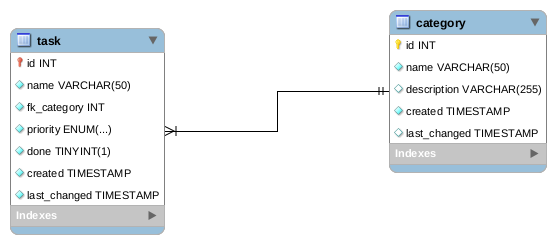
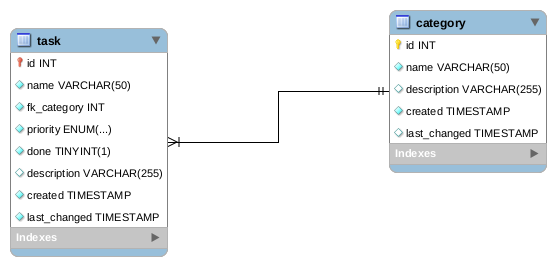
db layer improvements

Changed region(s): [[0.0, 0.0861, 1.0, 0.9754], [0.7032, 0.0287, 1.0, 0.2008]]

diff --git a/pkg/todo/dba/category_test.go b/pkg/todo/dba/category_test.go
@@ -4,10 +4,11 @@ import (
 	"database/sql"
 	"testing"
 
+	"github.com/jmoiron/sqlx"
 	"github.com/stretchr/testify/assert"
 )
 
-func TestInsertCategory(t *testing.T) {
+func TestInsertCategory_WithoutTransaction(t *testing.T) {
 	teardownTestCase := setupTestCase()
 	defer teardownTestCase()
 
@@ -16,4 +17,46 @@ func TestInsertCategory(t *testing.T) {
 
 	assert.Nil(t, err)
 	assert.NotEqual(t, 0, id)
+}
+
+func TestInsertCategory_Transaction(t *testing.T) {
+	teardownTestCase := setupTestCase()
+	defer teardownTestCase()
+
+	var idToCheck int
+	err := da.ExecuteInTransaction(func(tx *sqlx.Tx) error {
+		c := Category{Name: "health", Description: sql.NullString{Valid: true, String: "Category for health tasks."}}
+		id, err := da.InsertCategory(tx, &c)
+		idToCheck = id
+
+		assert.Nil(t, err)
+		assert.NotEqual(t, 0, id)
+
+		_, err = da.InsertCategory(tx, &c)
+		assert.NotNil(t, err)
+
+		return err
+	})
+
+	assert.NotNil(t, err)
+
+	var cs []Category
+	da.db.Select(&cs, "SELECT * FROM category WHERE id=?", idToCheck)
+	assert.Empty(t, cs)
+}
+
+func TestGetCategoryById(t *testing.T) {
+	teardownTestCase := setupTestCase()
+	defer teardownTestCase()
+
+	// prepare category
+	c := Category{Name: "health", Description: sql.NullString{Valid: true, String: "Category for health tasks."}}
+	id, _ := da.InsertCategory(nil, &c)
+
+	cat, err := da.GetCategoryById(nil, id)
+	assert.Nil(t, err)
+	assert.NotNil(t, cat)
+
+	assert.Equal(t, c.Name, cat.Name)
+	assert.Equal(t, c.Description, cat.Description)
 }

diff --git a/pkg/todo/dba/types.go b/pkg/todo/dba/types.go
@@ -15,20 +15,21 @@ const (
 
 // Task struct represents task table.
 type Task struct {
-	Id          int
-	Name        string
-	FkCateogory int
-	Priority    TaskPriorityType
-	Done        int8
-	Created     time.Time
-	LastChanged time.Time
+	Id          int              `db:"id"`
+	Name        string           `db:"name"`
+	FkCateogory int              `db:"fk_category"`
+	Priority    TaskPriorityType `db:"priority"`
+	Done        int8             `db:"done"`
+	Description sql.NullString   `db:"description"`
+	Created     time.Time        `db:"created"`
+	LastChanged time.Time        `db:"last_changed"`
 }
 
 // Category struct represents category table.
 type Category struct {
-	Id          int
-	Name        string
-	Description sql.NullString
-	Created     time.Time
-	LastChanged time.Time
+	Id          int            `db:"id"`
+	Name        string         `db:"name"`
+	Description sql.NullString `db:"description"`
+	Created     time.Time      `db:"created"`
+	LastChanged time.Time      `db:"last_changed"`
 }

diff --git a/pkg/todo/dba/category.go b/pkg/todo/dba/category.go
@@ -35,3 +35,24 @@ func (da *DatabaseAccess) InsertCategory(tx *sqlx.Tx, c *Category) (int, error) 
 
 	return int(id), nil
 }
+
+func (da *DatabaseAccess) GetCategoryById(tx *sqlx.Tx, id int) (*Category, error) {
+
+	s := sqrl.Select("*").From("category").Where(sqrl.Eq{"id": id})
+	stmt, params, err := s.ToSql()
+	if err != nil {
+		return nil, err
+	}
+
+	var c Category
+	if tx == nil {
+		err = da.db.Get(&c, stmt, params...)
+	} else {
+		tx.Get(&c, stmt, params...)
+	}
+	if err != nil {
+		return nil, err
+	}
+
+	return &c, nil
+}

diff --git a/pkg/todo/dba/dba_test.go b/pkg/todo/dba/dba_test.go
@@ -1,7 +1,7 @@
 package dba
 
 const (
-	dsn = "root:root@tcp(localhost:13306)/todo"
+	dsn = "root:root@tcp(localhost:13306)/todo?parseTime=true"
 )
 
 var (
